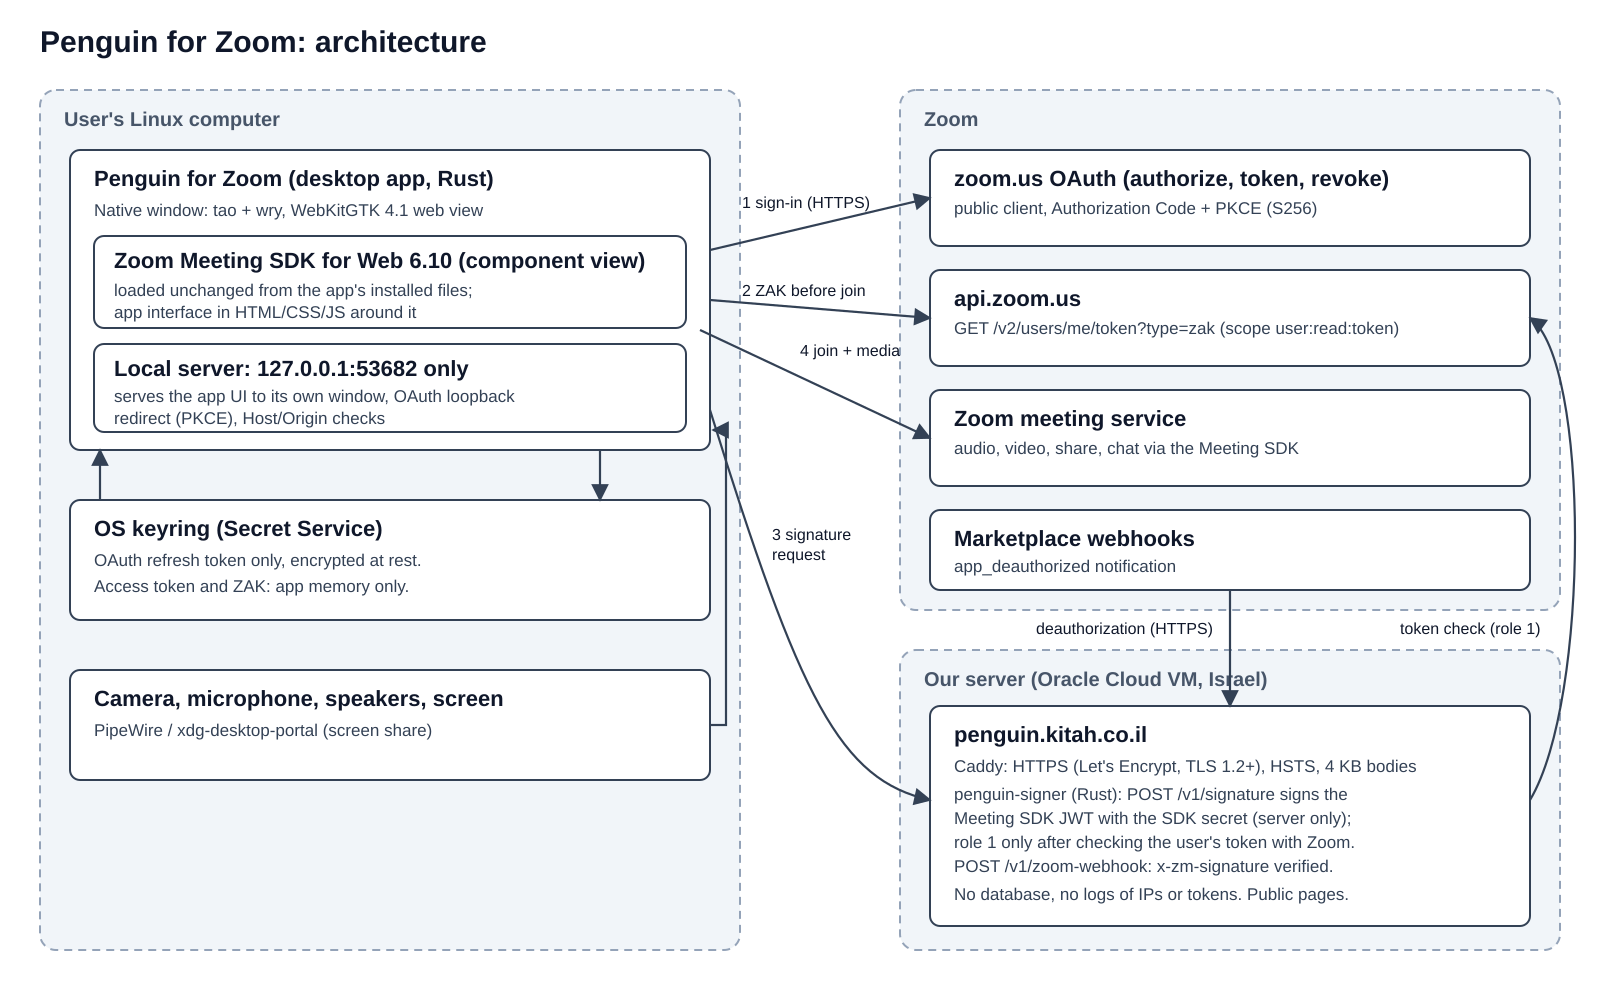
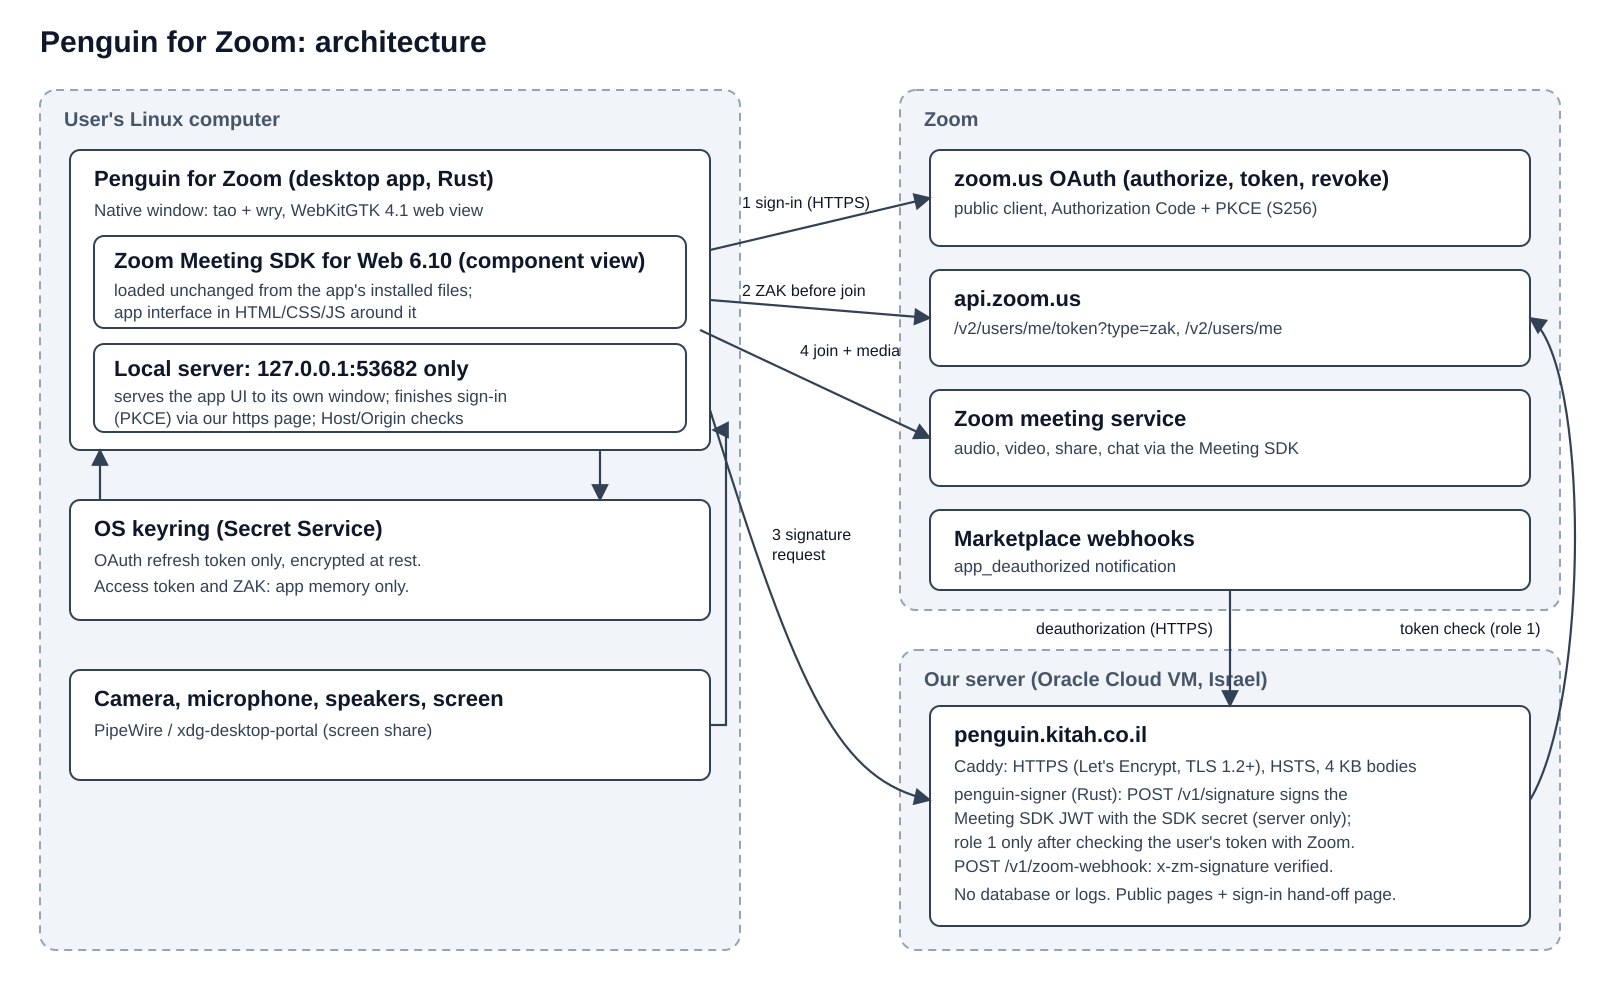
Signed in as name (email): scope user:read:user; answers, diagram, privacy and manifest updated for it and for the https sign-in hand-off
Claude-Session: https://claude.ai/code/session_01GisQBJrLQWGnduUBM2cVyw

Changed region(s): [[0.5938, 0.31, 0.875, 0.341], [0.0625, 0.372, 0.3125, 0.434], [0.6562, 0.868, 0.875, 0.899]]

diff --git a/site/privacy.html b/site/privacy.html
@@ -73,6 +73,7 @@
         <tr><td>Display name you type on the join screen</td><td>Your settings file</td><td>Zoom, when you join, so other participants see it</td><td>On your computer: until you change it. At Zoom: per Zoom's policy</td></tr>
         <tr><td>Meeting number and passcode (from the link you open)</td><td>App memory while it runs</td><td>Zoom (both, to join). Our signing service (meeting number only, see <a href="#signer">section 5</a>)</td><td>Gone when the app quits. Not stored by our signing service</td></tr>
         <tr><td>Zoom sign-in tokens (OAuth access token and refresh token)</td><td>Access token: app memory only. Refresh token: your system keyring (for example GNOME Keyring), so you stay signed in after a restart; never in a plain file</td><td>Zoom's API. For joining as host only, the access token is sent to our signing service for a one-time check</td><td>Access token until you quit; refresh token until you sign out, Zoom rejects it, or it expires (Zoom: 90 days)</td></tr>
+        <tr><td>Your name and email address from your Zoom profile</td><td>App memory only; never written to disk</td><td>Nobody; shown to you in Settings ("Signed in as …")</td><td>Until you sign out or quit the app</td></tr>
         <tr><td>ZAK (Zoom's short-lived join token for your account)</td><td>App memory, for the few seconds of joining</td><td>Zoom (it goes back to Zoom to join the meeting as you)</td><td>Discarded after the join; it expires within minutes</td></tr>
         <tr><td>Meeting audio, video, screen share, chat messages, participant list</td><td>Not stored by the app</td><td>Directly between your computer and Zoom. We never receive them</td><td>Not kept by us. At Zoom: per Zoom's policy</td></tr>
         <tr><td>Camera and microphone preview on the join screen</td><td>Shown on your screen only</td><td>Nobody until you join</td><td>Not kept</td></tr>
@@ -91,6 +92,7 @@
     <p>Zoom requires apps like Penguin to join meetings as a signed-in Zoom user, so you sign in with your own Zoom account before joining. When you sign in, Zoom asks you to approve the app and gives it tokens for your account. The app asks Zoom only for:</p>
     <ul>
       <li><strong>A ZAK</strong> (scope <code>user:read:token</code>): a short-lived token that lets the app join a meeting as you. It is fetched right before each join and handed back to Zoom.</li>
+      <li><strong>Your basic profile</strong> (scope <code>user:read:user</code>): used only to show "Signed in as <em>your name (your email)</em>" in Settings, so you can see which Zoom account you are using. Zoom's answer contains other profile fields; the app keeps only your first name, last name and email address, in memory.</li>
     </ul>
     <p>The app does not read your meetings list, contacts, recordings, chat history or any other Zoom data, and it does not change anything in your Zoom account.</p>
     <p>The access token is held only in the memory of the running app. The refresh token, which keeps you signed in after a restart, is stored in your system keyring (for example GNOME Keyring), never in a plain file. "Sign out" in Settings revokes the token with Zoom and deletes both.</p>

diff --git a/src/server.rs b/src/server.rs
@@ -76,6 +76,9 @@ struct Session {
     refresh_token: Option<String>,
     /// The keyring was already asked for a saved sign-in in this run.
     keyring_checked: bool,
+    /// "Name (email)" from GET /v2/users/me (scope user:read:user), for the
+    /// "Signed in as" line. Memory only, like the access token.
+    user_label: Option<String>,
 }
 
 /// Commands the page acts on (`POST /api/cmd`, `penguin-zoom --cmd …`).
@@ -643,6 +646,7 @@ async fn access_token(s: &AppState) -> Option<String> {
             // Other failures (429, 5xx) keep it for the next try.
             sess.access_token = None;
             sess.refresh_token = None;
+            sess.user_label = None;
             keyring_clear_refresh(s.keyring).await;
         }
         return None;
@@ -656,6 +660,26 @@ async fn access_token(s: &AppState) -> Option<String> {
     }
     eprintln!("[oauth] access token refreshed");
     Some(access)
+}
+
+/// "Name (email)" of the signed-in user, from GET /v2/users/me (scope
+/// user:read:user). None if Zoom refuses it (e.g. the scope isn't granted yet).
+async fn fetch_me(s: &AppState, access: &str) -> Option<String> {
+    let r = s.http.get(format!("{}/v2/users/me", s.zoom_api)).bearer_auth(access).send().await.ok()?;
+    if !r.status().is_success() {
+        eprintln!("[oauth] profile lookup: {}", r.status());
+        return None;
+    }
+    let v: serde_json::Value = r.json().await.ok()?;
+    let name = format!("{} {}", v["first_name"].as_str().unwrap_or(""), v["last_name"].as_str().unwrap_or(""));
+    let name = name.trim();
+    let email = v["email"].as_str().unwrap_or("").trim();
+    match (name.is_empty(), email.is_empty()) {
+        (false, false) => Some(format!("{name} ({email})")),
+        (false, true) => Some(name.to_string()),
+        (true, false) => Some(email.to_string()),
+        (true, true) => None,
+    }
 }
 
 /// Fetches a fresh ZAK. The app has scope `user:read:token`, so
@@ -702,6 +726,7 @@ async fn signout(State(s): State<AppState>) -> Response {
         let mut sess = s.session.lock().await;
         sess.refresh_token = None;
         sess.access_token = None;
+        sess.user_label = None;
         sess.keyring_checked = true;
     }
     keyring_clear_refresh(s.keyring).await;
@@ -731,10 +756,20 @@ async fn signout(State(s): State<AppState>) -> Response {
 }
 
 async fn status(State(s): State<AppState>) -> Response {
-    let signed_in = access_token(&s).await.is_some();
+    let access = access_token(&s).await;
+    let signed_in = access.is_some();
+    // After a restart the sign-in comes back from the keyring without a name:
+    // look it up the first time the window asks.
+    if let Some(a) = &access {
+        if s.session.lock().await.user_label.is_none() {
+            let label = fetch_me(&s, a).await;
+            s.session.lock().await.user_label = label;
+        }
+    }
     let sess = s.session.lock().await;
     Json(json!({
         "signedIn": signed_in,
+        "user": sess.user_label,
         "hasRefresh": sess.refresh_token.is_some(),
         "publicClientConfigured": public_client_id().is_some(),
         "remoteSigner": signer_url().is_some(),
@@ -1056,6 +1091,7 @@ mod tests {
         }
         match uri.path() {
             "/v2/users/me/token" => Json(json!({"token": format!("zak-for-{}", &auth[7..])})).into_response(),
+            "/v2/users/me" => Json(json!({"first_name": "Test", "last_name": "User", "email": "test@example.com"})).into_response(),
             _ => StatusCode::NOT_FOUND.into_response(),
         }
     }
@@ -1154,6 +1190,7 @@ mod tests {
         assert_eq!(v["zak"], "zak-for-a1");
         let v = body_json(status(State(s)).await).await;
         assert_eq!(v["signedIn"].as_bool(), Some(true));
+        assert_eq!(v["user"].as_str(), Some("Test User (test@example.com)"));
     }
 
     #[tokio::test]

diff --git a/docs/marketplace-answers.md b/docs/marketplace-answers.md
@@ -3,13 +3,17 @@
 Text for the Zoom Marketplace forms. Everything here must stay true to the code and to
 `site/privacy.html`; change both together.
 
-## Scope description: `user:read:token`
+## Scope description: `user:read:token` and `user:read:user`
 
-Used only to get the user's ZAK (GET /v2/users/me/token?type=zak) right before each meeting join. The app hands the ZAK to the Zoom Meeting SDK so the user joins the meeting as themselves. The ZAK is kept only in the app's memory for that join, is sent nowhere except Zoom, and is never written to disk. No Zoom data is stored on any server we run. To keep the user signed in, the OAuth refresh token is stored only on the user's own computer, in the operating system's keyring (Secret Service, e.g. GNOME Keyring, which keeps it encrypted at rest). The access token is held in memory only. Signing out revokes the token with Zoom and deletes it from the keyring.
+user:read:token: used only to get the user's ZAK (GET /v2/users/me/token?type=zak) right before each meeting join. The app hands the ZAK to the Zoom Meeting SDK so the user joins the meeting as themselves. The ZAK is kept only in the app's memory for that join, is sent nowhere except Zoom, and is never written to disk.
+
+user:read:user: used only to show "Signed in as <name> (<email>)" in the app's settings, so the user can see which Zoom account they are signed in with (GET /v2/users/me). Only the first name, last name and email are used; they are held in the app's memory and never written to disk or sent anywhere.
+
+No Zoom data is stored on any server we run. To keep the user signed in, the OAuth refresh token is stored only on the user's own computer, in the operating system's keyring (Secret Service, e.g. GNOME Keyring, which keeps it encrypted at rest). The access token is held in memory only. Signing out revokes the token with Zoom and deletes it from the keyring.
 
 ## Why public client OAuth in production
 
-Penguin for Zoom is a desktop application that each user installs and runs on their own Linux computer. A desktop app cannot keep a client secret confidential: anything shipped in the program can be extracted from it. This is the case Zoom's PKCE guidance describes, so the app signs in as a public client using the Authorization Code flow with PKCE (S256) and no client secret. The redirect goes to a loopback address (http://127.0.0.1:53682/oauth/callback), served by the app itself and bound to 127.0.0.1 only, and the app checks the OAuth state parameter before redeeming the code. The confidential client secret never leaves our server: Meeting SDK signatures are created by our hosted signing service (https://penguin.kitah.co.il), not on the user's computer.
+Penguin for Zoom is a desktop application that each user installs and runs on their own Linux computer. A desktop app cannot keep a client secret confidential: anything shipped in the program can be extracted from it. This is the case Zoom's PKCE guidance describes, so the app signs in as a public client using the Authorization Code flow with PKCE (S256) and no client secret. Sign-in runs in the user's own browser. Zoom redirects to https://penguin.kitah.co.il/oauth/callback, a static page on our site that passes the code and state straight on, in the browser, to the app's own server on http://127.0.0.1:53682/oauth/callback (bound to 127.0.0.1 only); nothing is stored or logged on our site. The app checks the OAuth state before redeeming the code, and the code is useless without the PKCE verifier, which exists only in the app's memory. The confidential client secret never leaves our server: Meeting SDK signatures are created by our hosted signing service (https://penguin.kitah.co.il), not on the user's computer.
 
 ## Short description
 
@@ -36,7 +40,7 @@ Penguin for Zoom is an independent app and is not made, endorsed or supported by
 
 ## Technical design: Application overview
 
-Penguin for Zoom is a desktop application for Linux, written in Rust. It opens a native window with the system web view (WebKitGTK) and loads the Zoom Meeting SDK for Web (component view) from files installed with the app; the SDK is used unchanged. A small HTTP server inside the app, bound to 127.0.0.1:53682 only, serves the app's interface to its own window and handles the OAuth redirect.
+Penguin for Zoom is a desktop application for Linux, written in Rust. It opens a native window with the system web view (WebKitGTK) and loads the Zoom Meeting SDK for Web (component view) from files installed with the app; the SDK is used unchanged. A small HTTP server inside the app, bound to 127.0.0.1:53682 only, serves the app's interface to its own window and completes sign-in (Zoom redirects the user's browser to an https page on our site, which hands the code to this local server).
 
 Flow of a join:
 1. The user opens a Zoom meeting link (the app registers as the handler for zoommtg:// links) or pastes one.
@@ -49,7 +53,7 @@ Components:
 - Signing service (https://penguin.kitah.co.il/v1/signature): a small Rust service on an Oracle Cloud VM in Israel, behind Caddy with HTTPS. It holds the SDK secret, has no database, and keeps nothing after a request. It also receives the deauthorization webhook.
 - Public pages (Terms, Privacy, Support, Docs) on the same host.
 
-Scopes: user:read:token only.
+Scopes: user:read:token (ZAK for joining) and user:read:user (name and email for the "Signed in as" line).
 
 ## Technical design: Technology stack
 
@@ -58,7 +62,7 @@ Desktop app (runs on the user's Linux computer):
 - Zoom Meeting SDK for Web 6.10.0, component view (ZoomMtgEmbedded), installed with the app from npm (@zoom/meetingsdk) and loaded from local files, unchanged.
 - App interface: plain HTML, CSS and JavaScript (no framework); a small wrapper calls the SDK's public API (join, mute, leave, chat, breakout rooms, video options).
 - Local HTTP server: tokio and axum 0.8, bound to 127.0.0.1:53682 only.
-- HTTP client: reqwest 0.13 (rustls/HTTPS) for Zoom OAuth (authorize, token, revoke) and the Zoom REST API (GET /v2/users/me/token?type=zak), and for our signing service.
+- HTTP client: reqwest 0.13 (rustls/HTTPS) for Zoom OAuth (authorize, token, revoke) and the Zoom REST API (GET /v2/users/me/token?type=zak for the ZAK, GET /v2/users/me for the signed-in user's name and email), and for our signing service.
 - OAuth 2.0 Authorization Code with PKCE (S256), public client; hmac/sha2/base64 crates for PKCE.
 - Token storage: the OS keyring through the Secret Service API (libsecret's secret-tool), refresh token only.
 - Media: WebKitGTK media capture with GStreamer 1.28 and PipeWire; screen sharing through xdg-desktop-portal (ScreenCast) with ashpd and GStreamer.
@@ -72,7 +76,7 @@ Signing service (https://penguin.kitah.co.il):
 ## Technical design: Security overview
 
 - Secrets: the SDK client secret exists only on the signing server, in a root-only (mode 600) environment file. It is never shipped in the app, logged or sent to clients.
-- Sign-in: OAuth 2.0 Authorization Code with PKCE (S256), public client, no client secret in the app. The OAuth state is checked before the code is redeemed. The redirect is a loopback URL on 127.0.0.1.
+- Sign-in: OAuth 2.0 Authorization Code with PKCE (S256), public client, no client secret in the app, in the user's own browser. Zoom redirects to https://penguin.kitah.co.il/oauth/callback, a static page that forwards the code and state in the browser to the app's server on 127.0.0.1; it stores and logs nothing. The OAuth state is checked before the code is redeemed, and the code can't be redeemed without the PKCE verifier, which stays in the app's memory.
 - Tokens: the access token and ZAK are kept in memory only. The refresh token is stored in the OS keyring (Secret Service, encrypted at rest), replaced on every refresh, and deleted on sign-out or when Zoom rejects it. Sign-out calls Zoom's revoke endpoint. Tokens are masked in the app's diagnostic output.
 - Local server: bound to 127.0.0.1 only; it answers only requests whose Host is 127.0.0.1:53682 or localhost:53682 (against DNS rebinding) and refuses requests from other origins for anything that changes state or returns tokens. Only http(s) links are passed to the system browser.
 - Signing service: HTTPS only (TLS certificates from Let's Encrypt, HSTS), request bodies limited to 4 KB, timeouts on all connections, rate limiting per client IP held in memory only, no access logs, no database, no stored IP addresses or tokens. Host (role 1) signatures require a valid Zoom access token, checked with Zoom; only a one-way hash is cached in memory for a few minutes. The service runs as an unprivileged system user under a hardened systemd unit. The server accepts SSH with keys only and has automatic security updates and fail2ban.

diff --git a/PLAN.md b/PLAN.md
@@ -577,6 +577,7 @@ Done by Claude in a headless Brave on the saved profile (owner signed in to Zoom
 - Gallery and README images: cameras off; the phone participant's Zoom profile picture was painted over with the plain name tile. Raw shots with real video or the picture were deleted.
 - Live check in the same session (meeting 71891643226): join signed by the hosted signer (`[sig] remote signature`), `fit()` scaled Zoom's view (0.79) so it no longer runs under the control bar; seen with a share. Bug seen: the devices menu ticks two cameras when two entries share one label.
 - **Sign-in error 4700 "Invalid redirect url" fixed (Marketplace config, not code):** Zoom rejected the public client's `http://127.0.0.1:53682/oauth/callback` while the app's main OAuth redirect URL was the same loopback address (the confidential client was accepted with it). With the main redirect set to `https://penguin.kitah.co.il/oauth/callback` (Development and Production; `site/oauth/callback.html` explains sign-in happens in the app) and the PKCE redirect left at the loopback URL, the Development public client reaches Zoom's sign-in page. The Production public client still answers 4700, very likely because Production credentials are inactive until approval: re-check then.
+- **"Signed in as Name (email)" (owner, 2026-11-17):** scope `user:read:user` added in the Marketplace (scopes and their single description are shared by Development and Production; both checked after reload); `GET /v2/users/me` looked up after sign-in and after a restart, kept in memory, cleared on sign-out. The scope description, Production's public-client justification, the Technical Design stack text and diagram were updated for the new scope and the https sign-in hand-off (Production only has those fields). Development and Production compared field by field afterwards: same redirect (https), PKCE redirect (loopback), allow list (https); Production alone has the justification, deauthorization URL and developer contact. A sign-in from before the new scope gives no name until the user signs out and in again (Zoom asks to approve the new permission).
 - **Sign-in redirect is https now (2026-11-17, evening):** after the owner signed in, Zoom's Marketplace authorize page (`marketplace.zoom.us/v2/authorize`) still answered "Invalid redirect URL" for `http://127.0.0.1:53682/oauth/callback` (Development public client), and showed the consent page for `https://penguin.kitah.co.il/oauth/callback`. So the app sends that https redirect (authorize and token exchange; `PENGUIN_REDIRECT_URI` overrides), and `site/oauth/callback.html` + `bounce.js` forward `?code&state` in the browser to `http://127.0.0.1:53682/oauth/callback`, where the app exchanges the code with its PKCE verifier. Checked: the page forwards a fake code to the loopback URL; opened without a code it only explains. The Marketplace's PKCE redirect field still holds the loopback URL.
 - **Sign-in in the default browser (owner, 2026-11-17):** Settings → Sign in calls `POST /api/signin`, which opens Zoom's authorize page with `xdg-open` (the user's own browser, saved passwords and password manager). Zoom returns the browser to `/oauth/callback` here, which answers with a small "Signed in, close this tab" page, sends an `account` event to the window and brings the window forward. The authorize request is built by the app (state + PKCE), so other pages can't start one (`POST`, origin-checked). **Not yet run end to end.**
 - **Linux-generic, not Omarchy/Hyprland (owner):** the window opens fullscreen itself (`tao` `Fullscreen::Borderless`), F11 toggles it (`POST /api/window`, tested in cage); "raise" goes through the window (`set_focus`) with `hyprctl` only as a best-effort extra. Removed: the "Follow the Omarchy theme" setting, `src/theme.rs` and `/api/theme`; the Settings shortcut section now lists the commands for any desktop's shortcut settings. The owner's Hyprland rule is now only `idle_inhibit` (the float/size rule fought fullscreen). Launcher name: `penguin`. Settings gear is a real cog (Lucide "settings", ISC).
